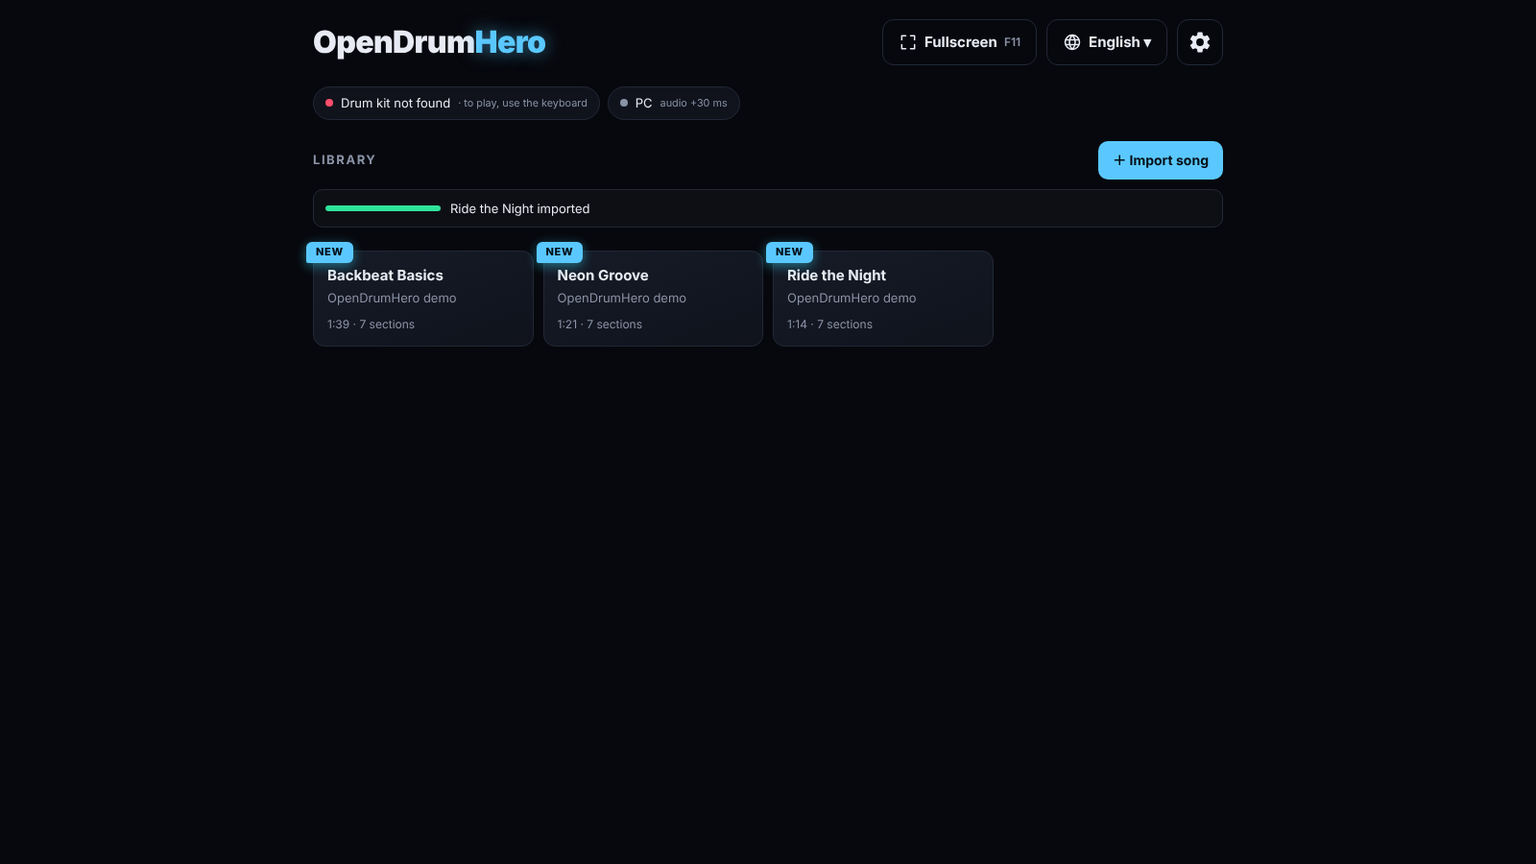
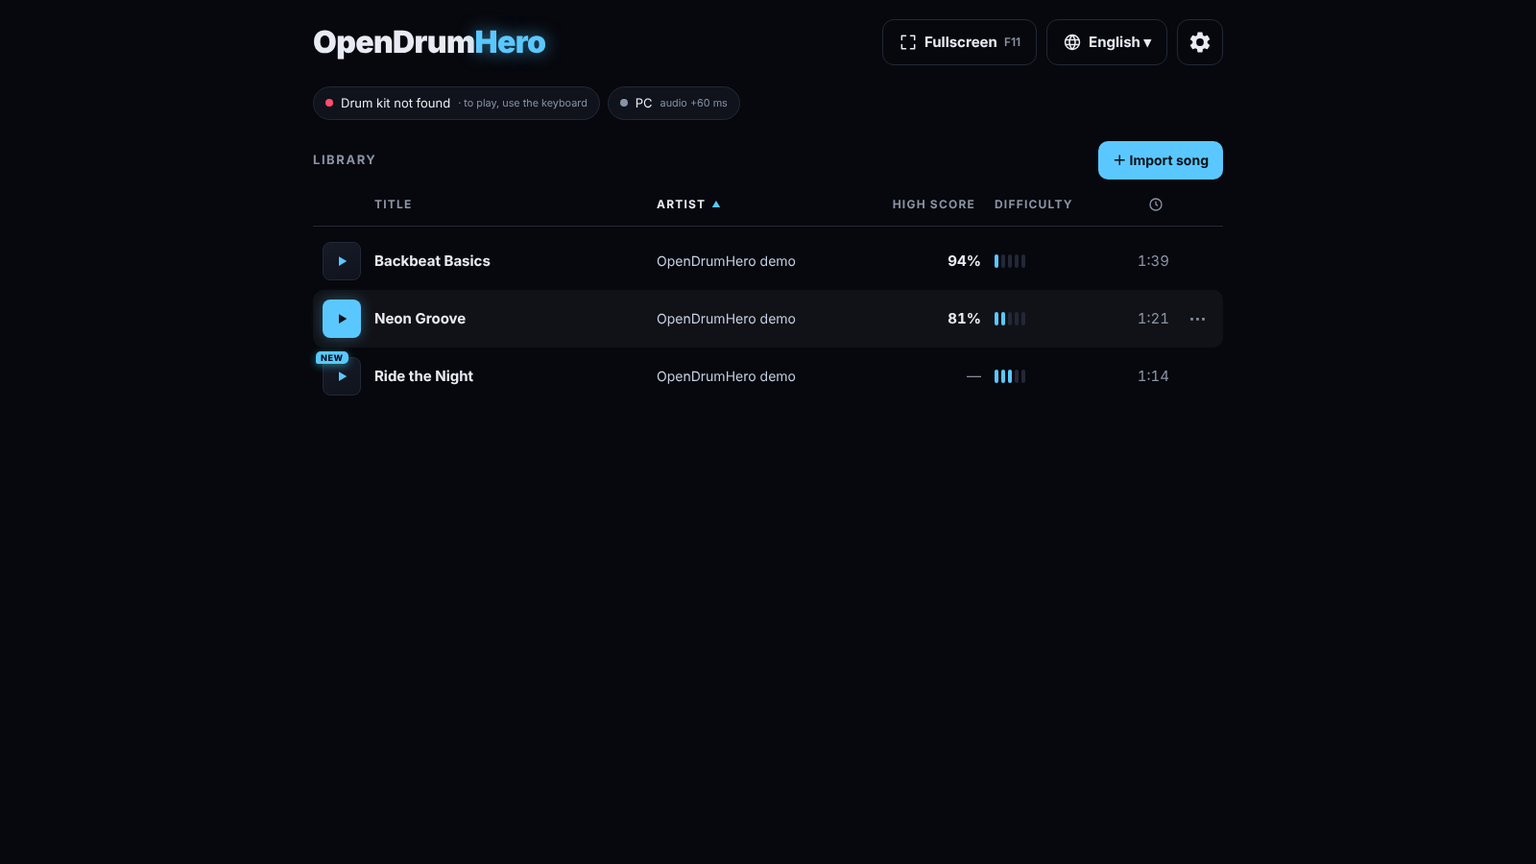
feat: library as a sortable table with high score and difficulty
- Library rows: play button, title (with the NEW tag), artist, high score, difficulty (1-5 bars from the notes per
  second in the busy parts) and duration; every column sorts (click again to flip), and the order is remembered.
- No album covers (they are copyrighted); export and delete moved to each row's menu.
- Narrow screens: the artist goes under the title and the header uses short labels.
- README: new library screenshot and description.
- Version 1.2.0.

Claude-Session: https://claude.ai/code/session_01Xk1u2fa6xdHZjKcbRZARjH

diff --git a/frontend/src/app/pages/home.component.ts b/frontend/src/app/pages/home.component.ts
@@ -1,9 +1,10 @@
-import { Component, effect, inject, signal } from '@angular/core';
+import { Component, computed, effect, inject, signal } from '@angular/core';
 import { FormsModule } from '@angular/forms';
-import { RouterLink } from '@angular/router';
+import { Router, RouterLink } from '@angular/router';
+import { difficultyLevel } from '../core/difficulty';
 import { GP_EXTENSIONS, GpFile, readGpFile } from '../core/gp-import';
 import { enterFullscreen, exitFullscreen, isBrowserF11, isFullscreen } from '../core/fullscreen';
-import { LANGS, Lang, lang, setLang, t } from '../core/i18n';
+import { LANGS, Lang, StringKey, lang, setLang, t } from '../core/i18n';
 import { exportSong, importExported } from '../core/library-store';
 import { SongSummary } from '../core/protocol';
 import { SettingsService } from '../core/settings.service';
@@ -71,26 +72,62 @@ import { songsterrAvailable } from '../platform/songsterr';
         @if (!library().length && !error()) {
           <p class="dim">{{ t('home.empty') }}</p>
         }
-        <div class="grid">
-          @for (s of library(); track s.id) {
-            <div class="song-card">
-              @if (s.isNew) { <em class="new">{{ t('home.new') }}</em> }
-              <a class="song" [routerLink]="['/play', s.id]">
-                <strong>{{ s.title }}</strong>
-                <span>{{ s.artist }}</span>
-                <small>
-                  {{ fmt(s.durationMs) }} · {{ t('home.sections', { n: s.sections }) }}
-                  @if (s.audio.includes('youtube')) { · {{ t('home.original') }} }
-                  @if (best(s.id); as b) { · {{ t('home.best', { pct: b }) }} }
-                </small>
-              </a>
-              <div class="card-tools">
-                <button class="exp" [title]="t('home.exportTitle')" (click)="exportOne(s)">⇩</button>
-                <button class="del" [title]="t('home.deleteTitle')" (click)="remove(s)">✕</button>
-              </div>
+        @if (library().length) {
+          <div class="lib-table" role="table" [attr.aria-label]="t('common.library')">
+            <div class="lib-row lib-header" role="row">
+              <span class="c-play" role="columnheader"></span>
+              @for (c of columns; track c.key) {
+                <button class="sort c-{{ c.key }}" role="columnheader" [class.on]="sort().key === c.key"
+                        [attr.aria-sort]="sort().key !== c.key ? 'none' : sort().dir === 1 ? 'ascending' : 'descending'"
+                        [title]="c.key === 'best' ? t('home.colBestHelp') : t('home.sortBy', { col: t(c.label) })" (click)="sortBy(c.key)">
+                  @if (c.key === 'duration') {
+                    <svg class="clock" viewBox="0 0 24 24" [attr.aria-label]="t(c.label)"><circle cx="12" cy="12" r="9"/><path d="M12 7v5l3 2"/></svg>
+                  } @else {
+                    <span class="label">{{ t(c.label) }}</span>
+                    <!-- narrow screens: short form (full name in the tooltip) -->
+                    @if (c.key === 'best') { <span class="short" aria-hidden="true">%</span> }
+                    @if (c.key === 'difficulty') {
+                      <svg class="short bars" viewBox="0 0 14 14" aria-hidden="true"><rect x="1" y="8" width="3" height="6" rx="1"/><rect x="5.5" y="4" width="3" height="10" rx="1"/><rect x="10" y="0" width="3" height="14" rx="1"/></svg>
+                    }
+                  }
+                  <i class="arrow" aria-hidden="true">{{ sort().key === c.key ? (sort().dir === 1 ? '▲' : '▼') : '' }}</i>
+                </button>
+              }
+              <span class="c-more" role="columnheader"></span>
             </div>
-          }
-        </div>
+            @for (s of rows(); track s.id) {
+              <div class="lib-row song-row" role="row" (click)="open(s.id)">
+                <a class="c-play play-tile" role="cell" [routerLink]="['/play', s.id]" (click)="$event.stopPropagation()"
+                   [attr.aria-label]="t('home.play', { title: s.title })" [title]="t('home.play', { title: s.title })">
+                  <svg viewBox="0 0 24 24" aria-hidden="true"><path d="M8 5.5v13l11-6.5z"/></svg>
+                  @if (s.isNew) { <em class="new">{{ t('home.new') }}</em> }
+                </a>
+                <div class="c-title" role="cell">
+                  <span class="title-line">
+                    <a class="song-title" [routerLink]="['/play', s.id]" (click)="$event.stopPropagation()">{{ s.title }}</a>
+                  </span>
+                  <span class="artist-sub">{{ s.artist }}</span>
+                </div>
+                <span class="c-artist" role="cell">{{ s.artist }}</span>
+                <span class="c-best" role="cell" [class.none]="s.best === null">{{ s.best === null ? '—' : s.best + '%' }}</span>
+                <span class="c-difficulty" role="cell" [title]="t('home.difficultyValue', { level: s.level, nps: s.difficulty })">
+                  @for (k of pips; track k) { <i [class.on]="k <= s.level"></i> }
+                </span>
+                <span class="c-duration" role="cell">{{ fmt(s.durationMs) }}</span>
+                <div class="c-more" role="cell">
+                  <button class="more" (click)="toggleMore(s.id, $event)" [attr.aria-label]="t('home.more', { title: s.title })"
+                          [title]="t('home.more', { title: s.title })" [attr.aria-expanded]="moreOpen() === s.id">⋯</button>
+                  @if (moreOpen() === s.id) {
+                    <div class="more-menu" (click)="$event.stopPropagation()">
+                      <button (click)="moreOpen.set(null); exportOne(s)">⇩ {{ t('home.export') }}</button>
+                      <button class="danger" (click)="moreOpen.set(null); remove(s)">✕ {{ t('home.delete') }}</button>
+                    </div>
+                  }
+                </div>
+              </div>
+            }
+          </div>
+        }
       </section>
 
       @if (importOpen()) {
@@ -176,6 +213,7 @@ import { songsterrAvailable } from '../platform/songsterr';
     </main>
   `,
   styleUrl: './pages.scss',
+  host: { '(document:click)': 'moreOpen.set(null)' },
 })
 export class HomeComponent {
   readonly midi = inject(MidiService);
@@ -187,6 +225,35 @@ export class HomeComponent {
   readonly langOpen = signal(false);
   readonly gear = GEAR;
   readonly library = signal<SongSummary[]>([]);
+  private readonly router = inject(Router);
+  /** Library columns, in order; all sortable. */
+  readonly columns: { key: SortKey; label: StringKey }[] = [
+    { key: 'title', label: 'home.colTitle' },
+    { key: 'artist', label: 'home.colArtist' },
+    { key: 'best', label: 'home.colBest' },
+    { key: 'difficulty', label: 'home.colDifficulty' },
+    { key: 'duration', label: 'home.colDuration' },
+  ];
+  readonly pips = [1, 2, 3, 4, 5];
+  readonly sort = signal<{ key: SortKey; dir: 1 | -1 }>(readSort());
+  /** Song whose "⋯" menu (export / delete) is open. */
+  readonly moreOpen = signal<string | null>(null);
+  /** Library rows with high score and difficulty level, in the chosen order (songs without a score always last). */
+  readonly rows = computed(() => {
+    const { key, dir } = this.sort();
+    const text = (a: string, b: string) => a.localeCompare(b, undefined, { sensitivity: 'base', numeric: true });
+    const byName = (a: LibraryRow, b: LibraryRow) => text(a.artist, b.artist) || text(a.title, b.title);
+    const rows: LibraryRow[] = this.library().map(s => ({ ...s, best: this.best(s.id), level: difficultyLevel(s.difficulty) }));
+    return rows.sort((a, b) => {
+      if (key === 'best' && (a.best === null) !== (b.best === null)) return a.best === null ? 1 : -1;
+      const d = key === 'title' ? text(a.title, b.title)
+        : key === 'artist' ? text(a.artist, b.artist)
+        : key === 'best' ? (a.best ?? 0) - (b.best ?? 0)
+        : key === 'difficulty' ? a.difficulty - b.difficulty
+        : a.durationMs - b.durationMs;
+      return d * dir || byName(a, b);
+    });
+  });
   readonly error = signal<string | null>(null);
   readonly songsterrOk = songsterrAvailable();
   readonly isDesktop = platformKind() !== 'android';
@@ -218,6 +285,21 @@ export class HomeComponent {
       next: l => { this.library.set(l); this.error.set(null); },
       error: e => this.error.set(e.message),
     });
+  }
+
+  /** Same column: flips the order; another column: text A→Z, numbers highest first. */
+  sortBy(key: SortKey): void {
+    const cur = this.sort();
+    const next = { key, dir: (cur.key === key ? -cur.dir : key === 'title' || key === 'artist' ? 1 : -1) as 1 | -1 };
+    this.sort.set(next);
+    try { localStorage.setItem(SORT_KEY, JSON.stringify(next)); } catch { /* no storage */ }
+  }
+
+  open(id: string): void { void this.router.navigate(['/play', id]); }
+
+  toggleMore(id: string, ev: Event): void {
+    ev.stopPropagation();
+    this.moreOpen.set(this.moreOpen() === id ? null : id);
   }
 
   langLabel(): string { return LANGS.find(l => l.id === lang())?.label ?? 'English'; }
@@ -319,6 +401,19 @@ export class HomeComponent {
     const s = Math.round(ms / 1000);
     return `${Math.floor(s / 60)}:${String(s % 60).padStart(2, '0')}`;
   }
+}
+
+type SortKey = 'title' | 'artist' | 'best' | 'difficulty' | 'duration';
+type LibraryRow = SongSummary & { best: number | null; level: number };
+const SORT_KEY = 'drumhero.librarySort';
+const SORT_KEYS: SortKey[] = ['title', 'artist', 'best', 'difficulty', 'duration'];
+
+function readSort(): { key: SortKey; dir: 1 | -1 } {
+  try {
+    const v = JSON.parse(localStorage.getItem(SORT_KEY) ?? 'null');
+    if (SORT_KEYS.includes(v?.key)) return { key: v.key, dir: v.dir === -1 ? -1 : 1 };
+  } catch { /* no storage */ }
+  return { key: 'artist', dir: 1 };
 }
 
 const GEAR = 'M19.14 12.94a7.07 7.07 0 0 0 .06-.94 7.07 7.07 0 0 0-.06-.94l2.03-1.58a.48.48 0 0 0 .12-.61l-1.92-3.32a.49.49 0 0 0-.59-.22l-2.39.96a7.03 7.03 0 0 0-1.62-.94l-.36-2.54a.48.48 0 0 0-.48-.41h-3.84a.48.48 0 0 0-.48.41l-.36 2.54c-.59.24-1.13.56-1.62.94l-2.39-.96a.48.48 0 0 0-.59.22L2.71 8.87a.48.48 0 0 0 .12.61l2.03 1.58a7.07 7.07 0 0 0 0 1.88l-2.03 1.58a.48.48 0 0 0-.12.61l1.92 3.32c.12.22.37.3.59.22l2.39-.96c.49.38 1.03.7 1.62.94l.36 2.54c.05.24.25.41.48.41h3.84c.24 0 .44-.17.48-.41l.36-2.54c.59-.24 1.13-.56 1.62-.94l2.39.96c.22.08.47 0 .59-.22l1.92-3.32a.48.48 0 0 0-.12-.61l-2.03-1.58zM12 15.6A3.6 3.6 0 1 1 12 8.4a3.6 3.6 0 0 1 0 7.2z';

diff --git a/frontend/src/app/pages/pages.scss b/frontend/src/app/pages/pages.scss
@@ -50,28 +50,68 @@ pre { white-space: pre-wrap; color: var(--dim); }
   &.done .bar i { background: #2fe39a; }
 }
 
-/* song cards: export/delete at the top right; "new" as a tag sticking out of the left corner */
-.grid { display: grid; grid-template-columns: repeat(auto-fill, minmax(220px, 1fr)); gap: 14px 10px; padding-top: 6px; }
-.song-card { position: relative;
-  .card-tools { position: absolute; top: 8px; right: 8px; display: flex; gap: 4px; opacity: 0; transition: opacity 120ms; }
-  &:hover .card-tools, .card-tools:focus-within { opacity: 1; }
-  .exp, .del { width: 30px; height: 30px; padding: 0; font-size: 14px; background: rgb(7 8 13 / 0.6);
-    color: var(--dim); border: 1px solid var(--line); border-radius: 8px; }
-  .exp:hover { color: var(--accent); border-color: var(--accent); }
-  .del:hover { color: #ff4d6d; border-color: #ff4d6d; }
-  .new { position: absolute; z-index: 2; top: -9px; left: -7px; font-style: normal; font-size: 11px; font-weight: 800;
-    letter-spacing: 0.06em; text-transform: uppercase; padding: 3px 10px; border-radius: 6px 6px 6px 2px;
-    color: #031018; background: var(--accent); box-shadow: 0 3px 12px rgb(56 225 255 / 0.45); pointer-events: none; }
+/* library table: sortable header; each row = play tile, title (+ "new"), artist, high score, difficulty, duration, "⋯" */
+.lib-table { padding-top: 4px; }
+.lib-row { display: grid; align-items: center; gap: 14px; padding: 0 10px;
+  grid-template-columns: 40px minmax(0, 2fr) minmax(0, 1.4fr) 128px 104px 64px 32px; }
+.lib-header { border-bottom: 1px solid var(--line); margin-bottom: 6px; padding-bottom: 8px;
+  .sort { justify-content: flex-start; gap: 6px; min-width: 0; padding: 4px 0; border: 0; border-radius: 6px; background: transparent;
+    color: var(--dim); font-size: 12px; font-weight: 700; letter-spacing: 0.1em; text-transform: uppercase; }
+  .sort .label { overflow: hidden; text-overflow: ellipsis; }
+  .sort .short { display: none; }
+  .bars { width: 14px; height: 14px; fill: currentColor; }
+  .sort:hover, .sort.on { color: var(--fg); }
+  .sort.on .arrow { color: var(--accent); }
+  .arrow { font-style: normal; font-size: 9px; letter-spacing: 0; }
+  .clock { width: 16px; height: 16px; fill: none; stroke: currentColor; stroke-width: 2; flex: none; }
 }
-@media (pointer: coarse) { .song-card .card-tools { opacity: 1; } }
-.song {
-  display: flex; flex-direction: column; gap: 3px; padding: 14px; border-radius: 12px; text-decoration: none; color: var(--fg);
-  background: linear-gradient(160deg, #161b27, #10131c); border: 1px solid var(--line);
-  transition: transform 120ms, border-color 120ms; height: 100%;
-  strong { font-size: 15px; padding-right: 72px; }
-  span { color: var(--dim); font-size: 13px; }
-  small { color: var(--dim); font-size: 12px; margin-top: 6px; }
-  &:hover { border-color: var(--accent); transform: translateY(-2px); }
+.lib-header .c-best, .lib-header .c-duration, .song-row .c-best, .song-row .c-duration { justify-content: flex-end; text-align: right; }
+.song-row { min-height: 60px; border-radius: 10px; cursor: pointer; transition: background 120ms;
+  &:hover { background: rgb(255 255 255 / 0.045); }
+  .play-tile { position: relative; display: grid; place-items: center; width: 40px; height: 40px; border-radius: 8px; color: var(--accent);
+    background: linear-gradient(160deg, #161b27, #10131c); border: 1px solid var(--line); transition: background 120ms, color 120ms;
+    svg { width: 18px; height: 18px; fill: currentColor; } }
+  &:hover .play-tile, .play-tile:focus-visible { background: var(--accent); color: #031018; border-color: transparent;
+    box-shadow: 0 0 14px rgb(90 200 255 / 0.35); }
+  .c-title { display: flex; flex-direction: column; min-width: 0; }
+  .title-line { display: flex; align-items: center; gap: 8px; min-width: 0; }
+  .song-title { color: var(--fg); font-weight: 700; text-decoration: none; overflow: hidden; text-overflow: ellipsis; white-space: nowrap; }
+  .song-title:hover { text-decoration: underline; }
+  /* "new": the same tag as before, sticking out of the play tile's corner — small, so it never covers the title */
+  .new { position: absolute; z-index: 2; top: -7px; left: -8px; font-style: normal; font-size: 9px; line-height: 13px; font-weight: 800;
+    letter-spacing: 0.06em; text-transform: uppercase; padding: 0 5px; border-radius: 5px 5px 5px 2px; pointer-events: none;
+    color: #031018; background: var(--accent); box-shadow: 0 2px 9px rgb(56 225 255 / 0.45); }
+  .artist-sub { display: none; color: var(--dim); font-size: 13px; overflow: hidden; text-overflow: ellipsis; white-space: nowrap; }
+  .c-artist { color: var(--soft); font-size: 14px; overflow: hidden; text-overflow: ellipsis; white-space: nowrap; }
+  .c-best { font-weight: 700; font-variant-numeric: tabular-nums; }
+  .c-best.none { color: var(--dim); font-weight: 400; }
+  .c-duration { color: var(--dim); font-variant-numeric: tabular-nums; }
+  .c-difficulty { display: flex; gap: 3px; align-items: center; height: 16px;
+    i { width: 4px; height: 14px; border-radius: 2px; background: var(--line); }
+    i.on { background: var(--accent); } }
+  .c-more { position: relative; display: flex; justify-content: flex-end; }
+  .more { width: 32px; height: 32px; padding: 0; border: 0; background: transparent; color: var(--dim); font-size: 18px; letter-spacing: 1px; }
+  .more:hover, .more[aria-expanded="true"] { color: var(--fg); background: rgb(255 255 255 / 0.06); }
+  .more-menu { position: absolute; z-index: 5; top: calc(100% + 4px); right: 0; min-width: 230px; display: flex; flex-direction: column;
+    background: rgb(16 19 28 / 0.98); border: 1px solid var(--line); border-radius: 10px; overflow: hidden; box-shadow: 0 10px 28px rgb(0 0 0 / 0.55);
+    button { border: 0; border-radius: 0; background: transparent; color: var(--fg); justify-content: flex-start; padding: 12px 16px; font-size: 14px; }
+    button:hover { background: rgb(255 255 255 / 0.06); }
+    button.danger:hover { color: #ff4d6d; } }
+}
+@media (hover: hover) { .song-row:not(:hover) .more:not([aria-expanded="true"]) { opacity: 0; } .song-row .more:focus-visible { opacity: 1; } }
+/* narrow screens: the artist goes under the title; numbers and bars get tighter */
+@media (max-width: 720px) {
+  .lib-row { gap: 8px; padding: 0 4px; grid-template-columns: 36px minmax(0, 1fr) 58px 40px 44px 28px; }
+  .lib-row .c-artist { display: none; }
+  .song-row { min-height: 56px;
+    .play-tile { width: 36px; height: 36px; }
+    .artist-sub { display: block; }
+    .c-difficulty { gap: 2px; i { width: 3px; height: 12px; } }
+    .more { width: 28px; } }
+  .lib-header .sort { font-size: 11px; letter-spacing: 0.06em; }
+  .lib-header .c-best .label, .lib-header .c-difficulty .label { display: none; }
+  .lib-header .sort .short { display: inline; font-size: 13px; }
+  .lib-header .sort svg.short { display: block; }
 }
 
 /* ---- Import song window ---- */

diff --git a/frontend/src/app/core/strings.ts b/frontend/src/app/core/strings.ts
@@ -39,11 +39,18 @@ export const STRINGS = {
   "home.loadError": { en: "Could not load the library: {msg}", pt: "Não foi possível carregar a biblioteca: {msg}" },
   "home.empty": { en: "No songs yet. Use Import song (Songsterr, a Guitar Pro file or a song exported from another device).", pt: "Nenhuma música ainda. Use Importar música (Songsterr, arquivo Guitar Pro ou uma música exportada de outro aparelho)." },
   "home.new": { en: "new", pt: "novo" },
-  "home.sections": { en: "{n} sections", pt: "{n} seções" },
-  "home.original": { en: "original", pt: "original" },
-  "home.best": { en: "best {pct}%", pt: "recorde {pct}%" },
-  "home.exportTitle": { en: "Export this song (to move it to another device)", pt: "Exportar esta música (para passar a outro aparelho)" },
-  "home.deleteTitle": { en: "Delete this song", pt: "Apagar esta música" },
+  "home.colTitle": { en: "Title", pt: "Tema" },
+  "home.colArtist": { en: "Artist", pt: "Artista" },
+  "home.colBest": { en: "High score", pt: "High score" },
+  "home.colBestHelp": { en: "Best accuracy playing the whole song at the full difficulty", pt: "Melhor precisão tocando a música inteira na dificuldade máxima" },
+  "home.colDifficulty": { en: "Difficulty", pt: "Dificuldade" },
+  "home.colDuration": { en: "Duration", pt: "Duração" },
+  "home.sortBy": { en: "Sort by {col}", pt: "Ordenar por {col}" },
+  "home.difficultyValue": { en: "Difficulty {level}/5 · {nps} notes per second in the busy parts", pt: "Dificuldade {level}/5 · {nps} notas por segundo nos trechos mais rápidos" },
+  "home.play": { en: "Play {title}", pt: "Tocar {title}" },
+  "home.more": { en: "More options for {title}", pt: "Mais opções de {title}" },
+  "home.export": { en: "Export (to move it to another device)", pt: "Exportar (para passar a outro aparelho)" },
+  "home.delete": { en: "Delete", pt: "Apagar" },
   "home.exported": { en: "{title} exported to {where}", pt: "{title} exportada para {where}" },
   "home.exportFailed": { en: "Could not export: {msg}", pt: "Não consegui exportar: {msg}" },
   "home.deleteConfirm": { en: "Delete \"{title}\" from this device's library?", pt: "Apagar \"{title}\" da biblioteca deste aparelho?" },

diff --git a/frontend/src/app/core/difficulty.ts b/frontend/src/app/core/difficulty.ts
@@ -1,0 +1,32 @@
+import type { SongPackage } from './protocol';
+
+/**
+ * Song difficulty for the library: how many notes per second the drummer plays in the busy parts.
+ * It takes the note density (ghost notes left out) over 4-second windows and keeps the 90th percentile —
+ * an average would hide hard sections behind quiet intros, the maximum would be one single fill.
+ * Reference: Stairway to Heaven ≈ 7.5, Enter Sandman ≈ 8.3, fast metal with double bass 15+.
+ */
+export function difficultyOf(pkg: Pick<SongPackage, 'drumTracks'>, track = 0): number {
+  const notes = pkg.drumTracks[track]?.notes ?? [];
+  const times = notes.filter(n => !n.ghost).map(n => n.t).sort((a, b) => a - b);
+  if (times.length < 2) return 0;
+  const dens: number[] = [];
+  for (let i = 0, j = 0; i < times.length; i++) {
+    while (times[i] - times[j] > WINDOW_MS) j++;
+    dens.push((i - j + 1) / (WINDOW_MS / 1000));
+  }
+  dens.sort((a, b) => a - b);
+  return Math.round(dens[Math.floor((dens.length - 1) * 0.9)] * 10) / 10;
+}
+
+const WINDOW_MS = 4000;
+/** Notes per second where each level (1–5) starts. */
+const LEVELS = [0, 5, 8, 11, 15];
+
+/** 1 (easy) to 5 (very hard); 0 when the song has no notes. */
+export function difficultyLevel(nps: number): number {
+  if (!nps) return 0;
+  let level = 0;
+  for (const start of LEVELS) if (nps >= start) level++;
+  return level;
+}

diff --git a/frontend/src/app/core/difficulty.spec.ts b/frontend/src/app/core/difficulty.spec.ts
@@ -1,0 +1,29 @@
+import { describe, expect, it } from 'vitest';
+import { difficultyLevel, difficultyOf } from './difficulty';
+import type { ChartNote } from './protocol';
+
+const notes = (perSecond: number, seconds: number, from = 0): ChartNote[] =>
+  Array.from({ length: perSecond * seconds }, (_, i) => ({
+    t: from + (i * 1000) / perSecond, tick: 0, n: 38, lane: 'snare', art: 'hit', v: 90, acc: false, ghost: false,
+  }));
+
+describe('difficulty', () => {
+  it('measures the notes per second of the busy parts', () => {
+    expect(difficultyOf({ drumTracks: [{ name: 'd', midiTrack: 0, channel: 9, notes: notes(6, 60) }] })).toBeCloseTo(6, 0);
+  });
+
+  it('a quiet intro does not hide a hard song', () => {
+    const song = [...notes(1, 60), ...notes(12, 120, 60_000)];
+    expect(difficultyOf({ drumTracks: [{ name: 'd', midiTrack: 0, channel: 9, notes: song }] })).toBeGreaterThanOrEqual(11);
+  });
+
+  it('ignores ghost notes and empty tracks', () => {
+    const ghosts = notes(20, 30).map(n => ({ ...n, ghost: true }));
+    expect(difficultyOf({ drumTracks: [{ name: 'd', midiTrack: 0, channel: 9, notes: ghosts }] })).toBe(0);
+    expect(difficultyOf({ drumTracks: [] })).toBe(0);
+  });
+
+  it('levels 1 to 5', () => {
+    expect([0, 3, 7.5, 8.3, 12, 20].map(difficultyLevel)).toEqual([0, 1, 2, 3, 4, 5]);
+  });
+});

diff --git a/frontend/src/app/core/library-store.ts b/frontend/src/app/core/library-store.ts
@@ -1,4 +1,5 @@
 import type { SongPackage, SongSummary } from './protocol';
+import { difficultyOf } from './difficulty';
 import { t } from './i18n';
 
 /**
@@ -85,6 +86,7 @@ function txDone(tx: IDBTransaction): Promise<void> {
 export function summarize(pkg: SongPackage): SongSummary {
   return {
     id: pkg.id, title: pkg.title, artist: pkg.artist, durationMs: pkg.durationMs, sections: pkg.sections.length,
+    difficulty: difficultyOf(pkg),
     audio: [pkg.audio.synth ? 'synth' : '', pkg.audio.youtube?.length ? 'youtube' : ''].filter(Boolean),
   };
 }

diff --git a/frontend/src/app/core/protocol.ts b/frontend/src/app/core/protocol.ts
@@ -53,5 +53,7 @@ export interface SongPackage {
 
 export interface SongSummary {
   id: string; title: string; artist: string; durationMs: number; sections: number; audio: string[];
+  /** Notes per second in the busy parts (core/difficulty). */
+  difficulty: number;
   isNew?: boolean;   // imported and not played yet (shows "new" on the card)
 }

diff --git a/README.md b/README.md
@@ -134,12 +134,17 @@ D/S = crashes, ; = ride — all remappable in *Map drum kit*). On the phone, tap
 |---|---|
 | **Songsterr** (exe and apk) | Paste a song link. Needs a **Songsterr Plus** account: the app downloads the Guitar Pro file with *your* login (a login window appears the first time). You get the notes, synthetic audio, the **original recording and the recording without drums from YouTube** when Songsterr has a synced video, and lyrics when the tab has them. |
 | **Guitar Pro file** | Any .gp / .gp3 / .gp4 / .gp5 / .gpx / .gp7 / .gp8 with a drum track. You get the notes, synthetic audio and lyrics (if the file has them). |
-| **From another device** | A `.drumhero.json` file exported with the ⇩ button on a song card — move songs between the PC and the phone with everything they had. |
+| **From another device** | A `.drumhero.json` file exported from a song's **⋯** menu → *Export* — move songs between the PC and the phone with everything they had. |
 
 The **synthetic audio** is generated on the device from the score (alphaTab + a General MIDI SoundFont), so it is
 always perfectly in sync with the notes.
 
 ![Library](docs/screenshots/library.png)
+
+The **library** lists your songs with **title, artist, high score, difficulty and duration** — click a column to
+sort by it (again to flip the order). The **high score** is your best accuracy playing the whole song at the full
+difficulty; the **difficulty** (1–5 bars) comes from how many notes per second the drums play in the busy parts.
+A song you haven't played yet shows **NEW**; its **⋯** menu exports or deletes it.
 
 ---
 
